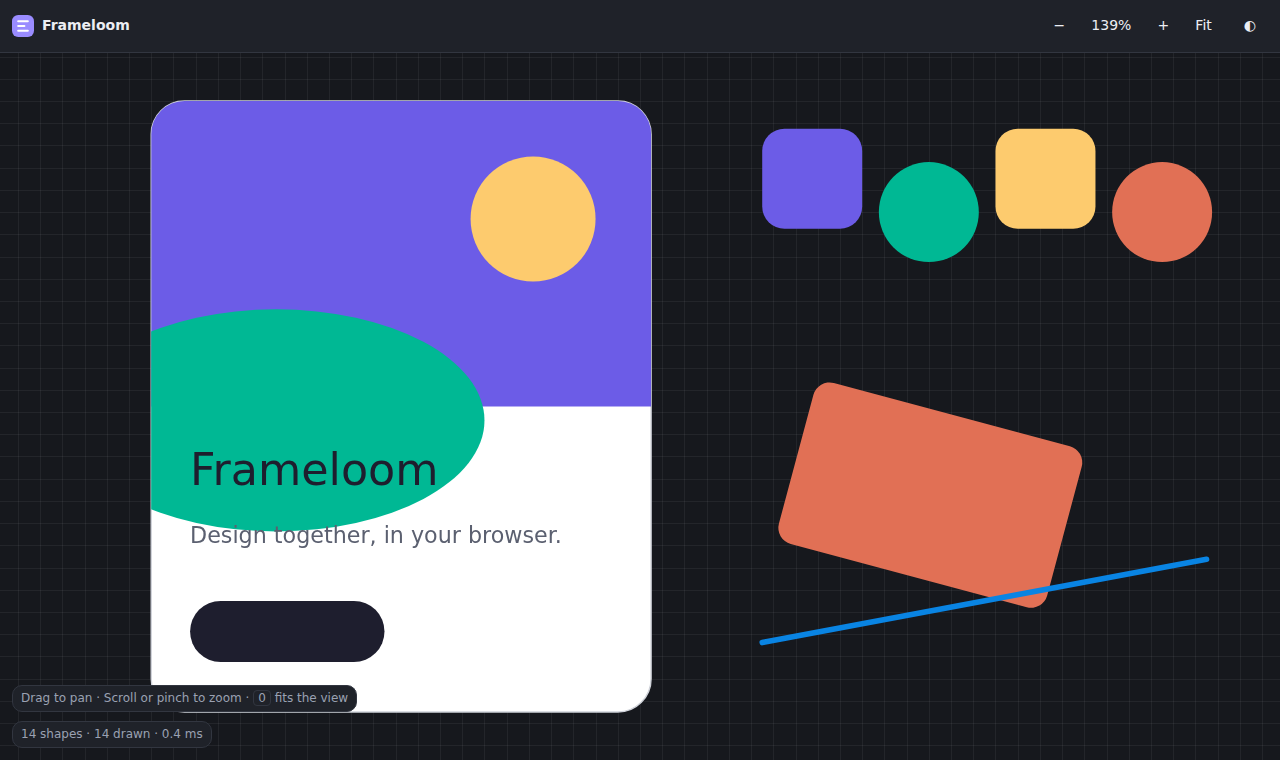
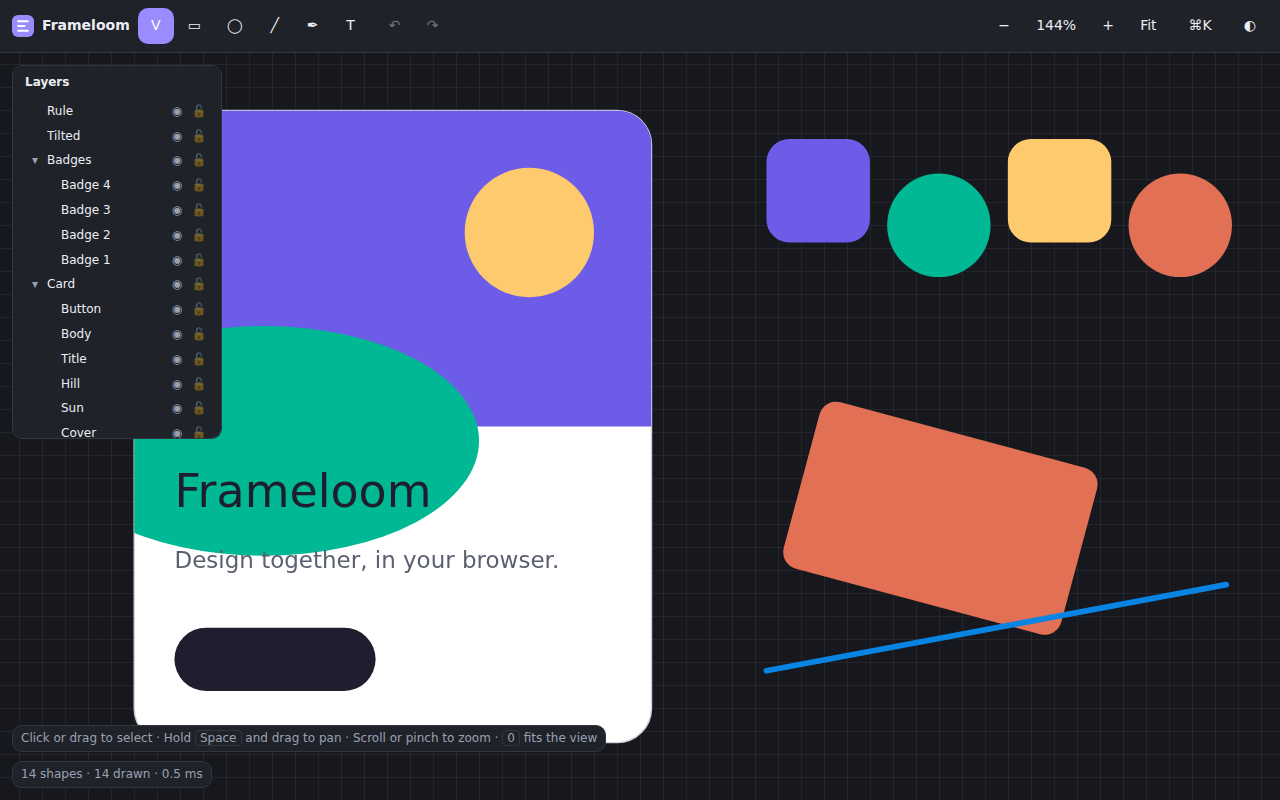
feat(ui): landing highlights in onboarding card; docs: regenerate screenshots, close out Day 14

diff --git a/src/ui/onboarding.ts b/src/ui/onboarding.ts
@@ -32,6 +32,11 @@ export class Onboarding {
         <button class="btn" data-tool="pen">✒ Pen <kbd>P</kbd></button>
         <button class="btn" data-tool="text">T Text <kbd>T</kbd></button>
       </div>
+      <ul class="onboarding-features" aria-label="Highlights">
+        <li><strong>Private</strong> No server or account; your document stays in this browser.</li>
+        <li><strong>Live</strong> Open a second tab and edit together, conflict-free.</li>
+        <li><strong>Fast</strong> Spatial index and WebGL2 keep 10,000 shapes smooth.</li>
+      </ul>
       <div class="onboarding-actions">
         <button class="btn primary" data-action="sample">Load sample document</button>
         <button class="btn" data-action="shortcuts">Keyboard shortcuts <kbd>?</kbd></button>

diff --git a/e2e/onboarding.spec.ts b/e2e/onboarding.spec.ts
@@ -51,3 +51,14 @@ test('mobile viewport keeps toolbar usable without horizontal overflow', async (
   expect(overflow).toBe(false);
   await expect(page.locator('#tool-rect')).toBeVisible();
 });
+
+test('empty state explains the product with highlights', async ({ page }) => {
+  await page.goto('/?collab=off');
+  await page.evaluate(() => {
+    const h = (window as unknown as { __frameloom: Hook }).__frameloom;
+    for (const id of [...h.doc.root.children]) h.history.apply('Delete', { kind: 'remove', id });
+  });
+  const list = page.getByRole('list', { name: 'Highlights' });
+  await expect(list.getByRole('listitem')).toHaveCount(3);
+  await expect(list).toContainText('No server or account');
+});

diff --git a/src/style.css b/src/style.css
@@ -511,3 +511,18 @@ kbd {
   border-color: var(--accent);
   color: #fff;
 }
+
+.onboarding-features {
+  list-style: none;
+  margin: 0 0 var(--space-3);
+  padding: 0;
+  display: grid;
+  gap: var(--space-2);
+  text-align: left;
+  font-size: 0.9em;
+  color: var(--muted);
+}
+.onboarding-features strong {
+  color: var(--text, inherit);
+  margin-right: var(--space-1);
+}

diff --git a/PLAN.md b/PLAN.md
@@ -19,8 +19,10 @@ Fourteen-day arc. Every milestone has acceptance criteria that can be checked by
 | 11 | Multi-tab collaboration and persistence | BroadcastChannel transport, presence cursors, IndexedDB persistence with load on start; Playwright two-page test sees edits both ways and survives reload | [x] BroadcastChannel sync, presence cursors, IndexedDB load/save, reconcile bridge, e2e |
 | 12 | Components, instances, overrides | Make component, instantiate, override fill/text per instance, propagate master edits; undo-safe; unit and e2e tests | [x] master/instance model, overrides (fill, text, ...), derived propagation, undo-safe, 9 unit tests + two-tab e2e |
 | 13 | Export, command palette, shortcuts, WebGL2 | SVG and PNG export (golden-file test for SVG); command palette (Ctrl+K) with fuzzy search; shortcut sheet; WebGL2 renderer behind a flag with Canvas2D fallback | [x] SVG export with golden test, PNG export, Ctrl/⌘+K fuzzy palette, shortcut sheet, WebGL2 renderer behind `?renderer=webgl` with Canvas2D fallback |
-| 14 | Polish, landing, benchmark, release | Landing section and onboarding empty state; mobile layout; benchmark script (10k shapes pan at ≥ 55 fps in headless Chromium, budgets enforced in CI); README screenshots | [~] pan benchmark enforced in e2e (`e2e/benchmark.spec.ts`); onboarding empty state and narrow-screen toolbar done; landing section and README screenshots still open |
+| 14 | Polish, landing, benchmark, release | Landing section and onboarding empty state; mobile layout; benchmark script (10k shapes pan at ≥ 55 fps in headless Chromium, budgets enforced in CI); README screenshots | [x] pan benchmark enforced in e2e, onboarding empty state with product highlights (landing), narrow-screen toolbar, README screenshots regenerated via `scripts/screenshots.mjs` |
 
 ## Stretch
+
+- Release notes / v1.0 tag; component UI (go to master); remote-edit-safe undo stacks.
 
 - Boolean operations on paths, auto-layout frames, comments, version history snapshots.

diff --git a/WORKLOG.md b/WORKLOG.md
@@ -157,3 +157,10 @@ Newest entries at the bottom. Each entry records what actually changed, what was
 - Tests: 2 unit tests (`tests/onboarding.test.ts`, 229 total) and `e2e/onboarding.spec.ts` (3 tests; full e2e 20 pass).
 - Learned: demo root has 4 children and `doc.size` excludes the root; my first test assumed otherwise.
 - Next: landing section, README screenshots, then release notes.
+
+## 2026-11-12 — Day 14, part 3 (landing highlights, screenshots) — plan complete
+
+- The onboarding card doubles as the landing section: three highlights (private, live multi-tab, fast) under the tool buttons. Covered by a new e2e test (21 e2e pass).
+- Added `scripts/screenshots.mjs` to regenerate `docs/screenshot-{light,dark}.png` from a preview server, and refreshed both images.
+- Learned: `pkill -f "vite preview"` from the same shell kills the shell if its command line matches; stop servers by job instead.
+- Day 14 and the whole 14-day plan are ticked. Next: stretch items (release notes, component UI, undo safety against remote deletes).
